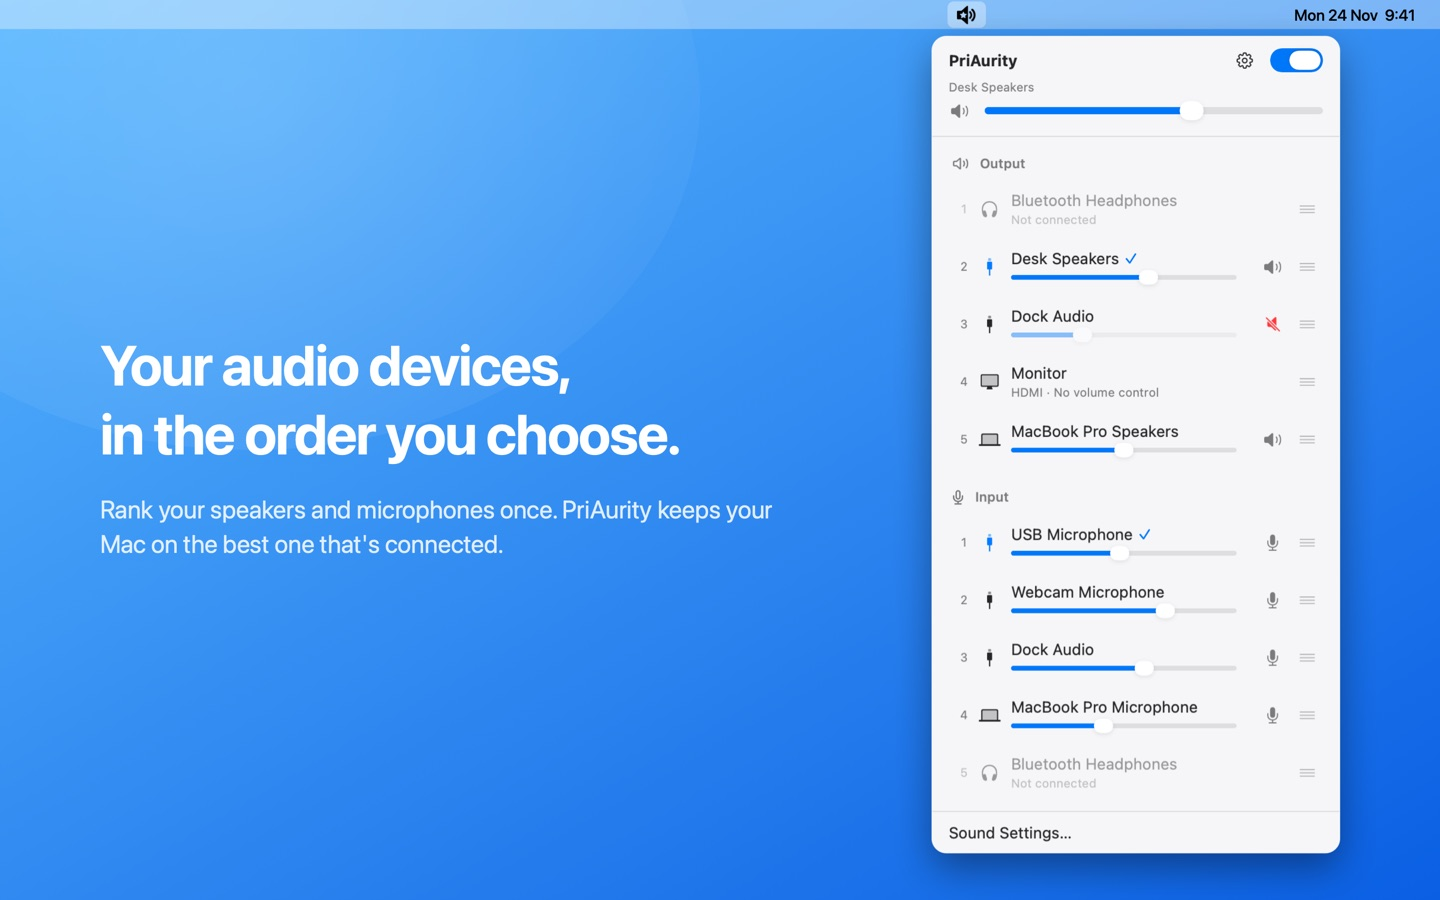
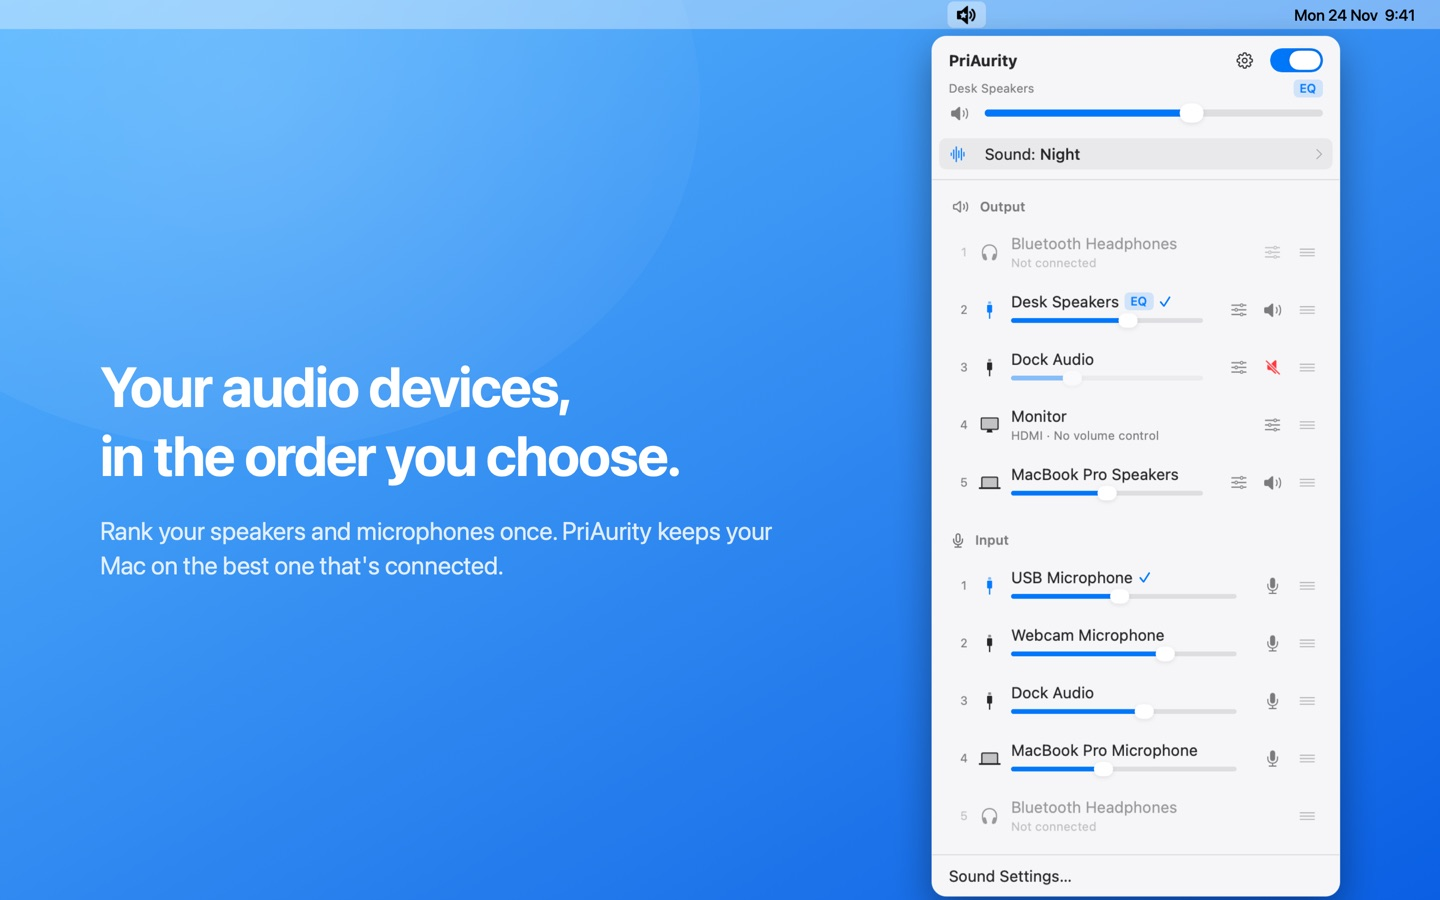
Site: refreshed screenshots, EQ, themes and virtual speakers

diff --git a/index.html b/index.html
@@ -46,6 +46,8 @@
       dock's optical port, HDMI monitors, and Multi-Output and Aggregate Devices.</li>
     <li>An equaliser for each output device, with presets.</li>
     <li>Sound themes, such as Night, Movie and Voice, plus your own, applied on top of any device.</li>
+    <li>For headphones: crossfeed for a more natural, less tiring sound, and virtual speakers that
+      sound like a real pair of speakers in a room in front of you.</li>
     <li>Keeps alert sounds on the same device as your main output.</li>
     <li>Docks plugged into a different port keep their place in your list.</li>
     <li>Pause automatic switching at any time from the menu.</li>
@@ -64,6 +66,18 @@
   <figure class="shot">
     <img src="screenshots/4-virtual.jpg" width="1440" height="900" loading="lazy"
       alt="The PriAurity menu with Dock Audio as the output, marked Virtual, with working volume sliders.">
+  </figure>
+  <figure class="shot">
+    <img src="screenshots/5-eq.jpg" width="1440" height="900" loading="lazy"
+      alt="The Desk Speakers EQ panel with the Bass boost preset and ten band sliders from 32 Hz to 16 kHz.">
+  </figure>
+  <figure class="shot">
+    <img src="screenshots/6-themes.jpg" width="1440" height="900" loading="lazy"
+      alt="The Sound panel with built-in themes Off, Night, Music, Movie and Voice, two custom themes and a New theme button.">
+  </figure>
+  <figure class="shot">
+    <img src="screenshots/7-speakers.jpg" width="1440" height="900" loading="lazy"
+      alt="Device settings for Bluetooth Headphones with virtual speakers on, Narrow width and Person 13 as the listener.">
   </figure>
 
   <nav>
